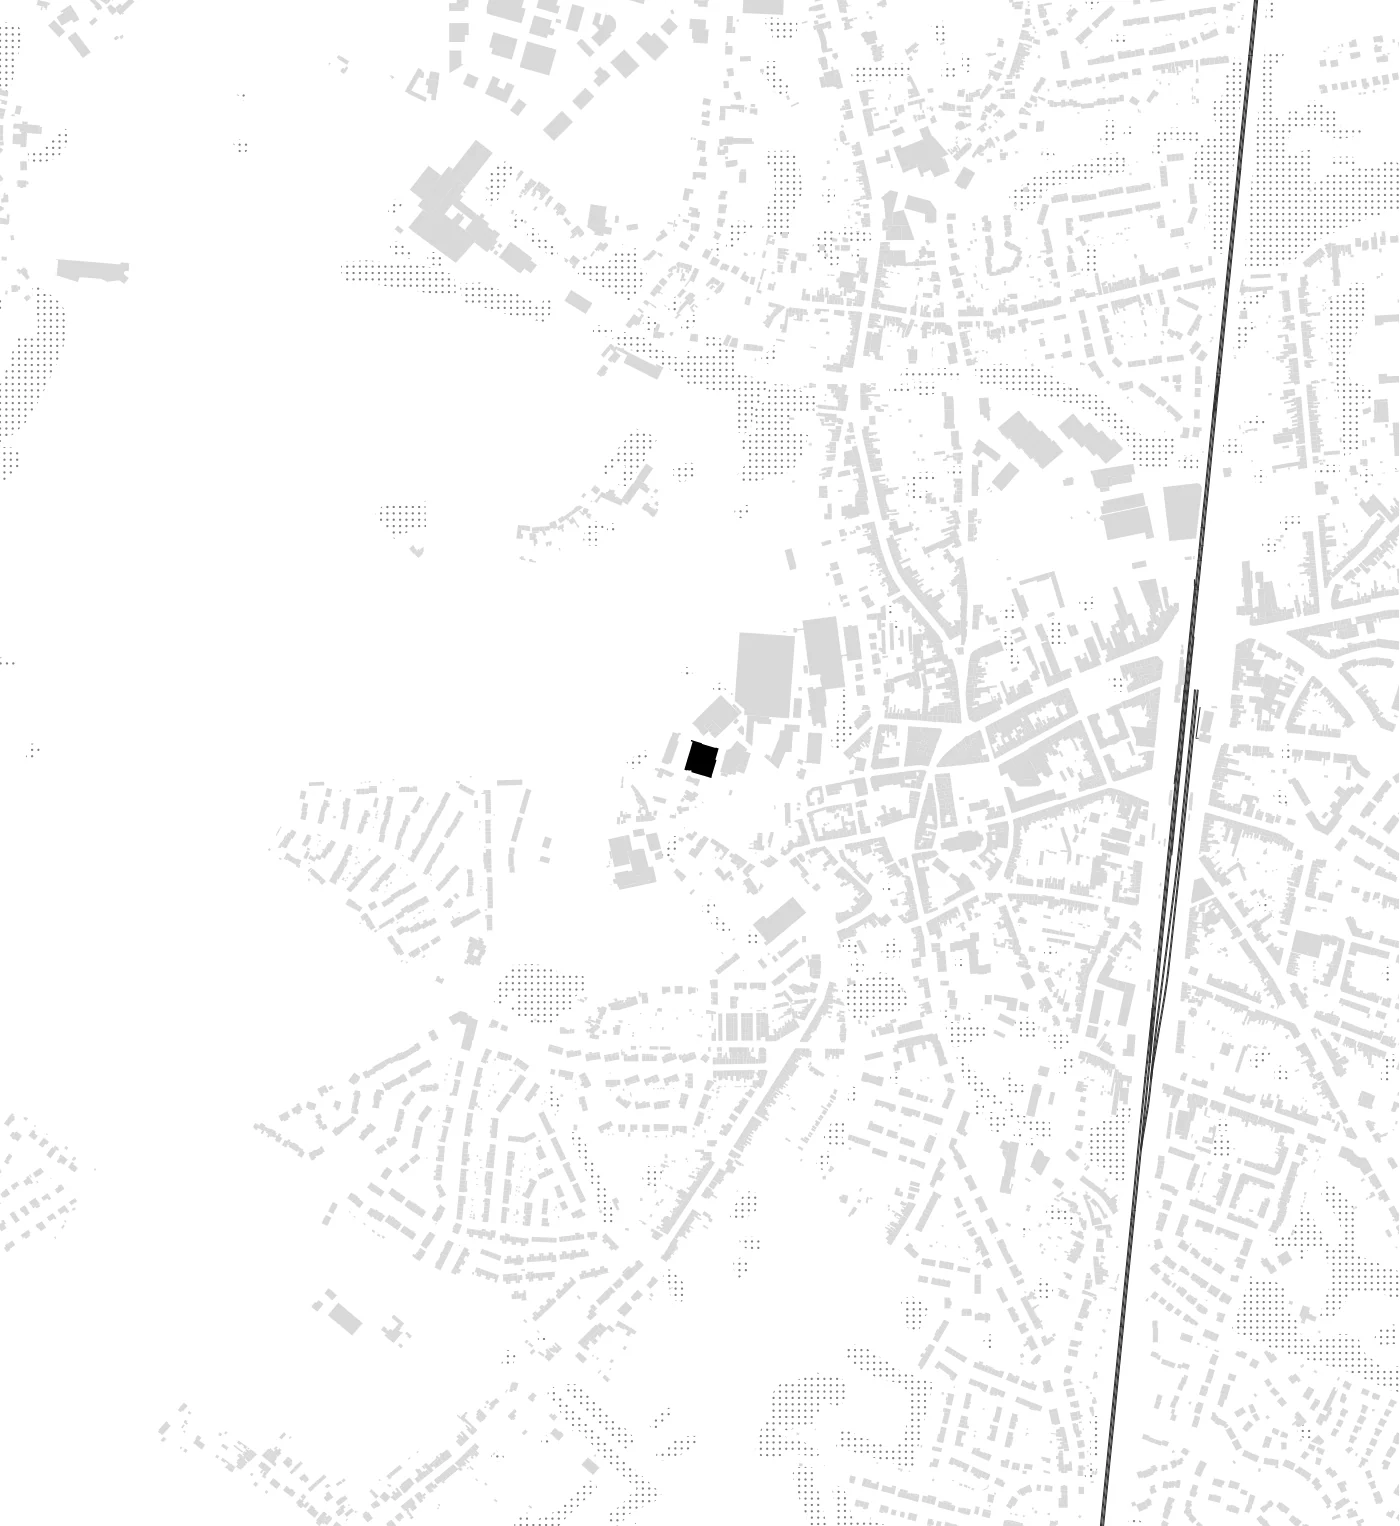
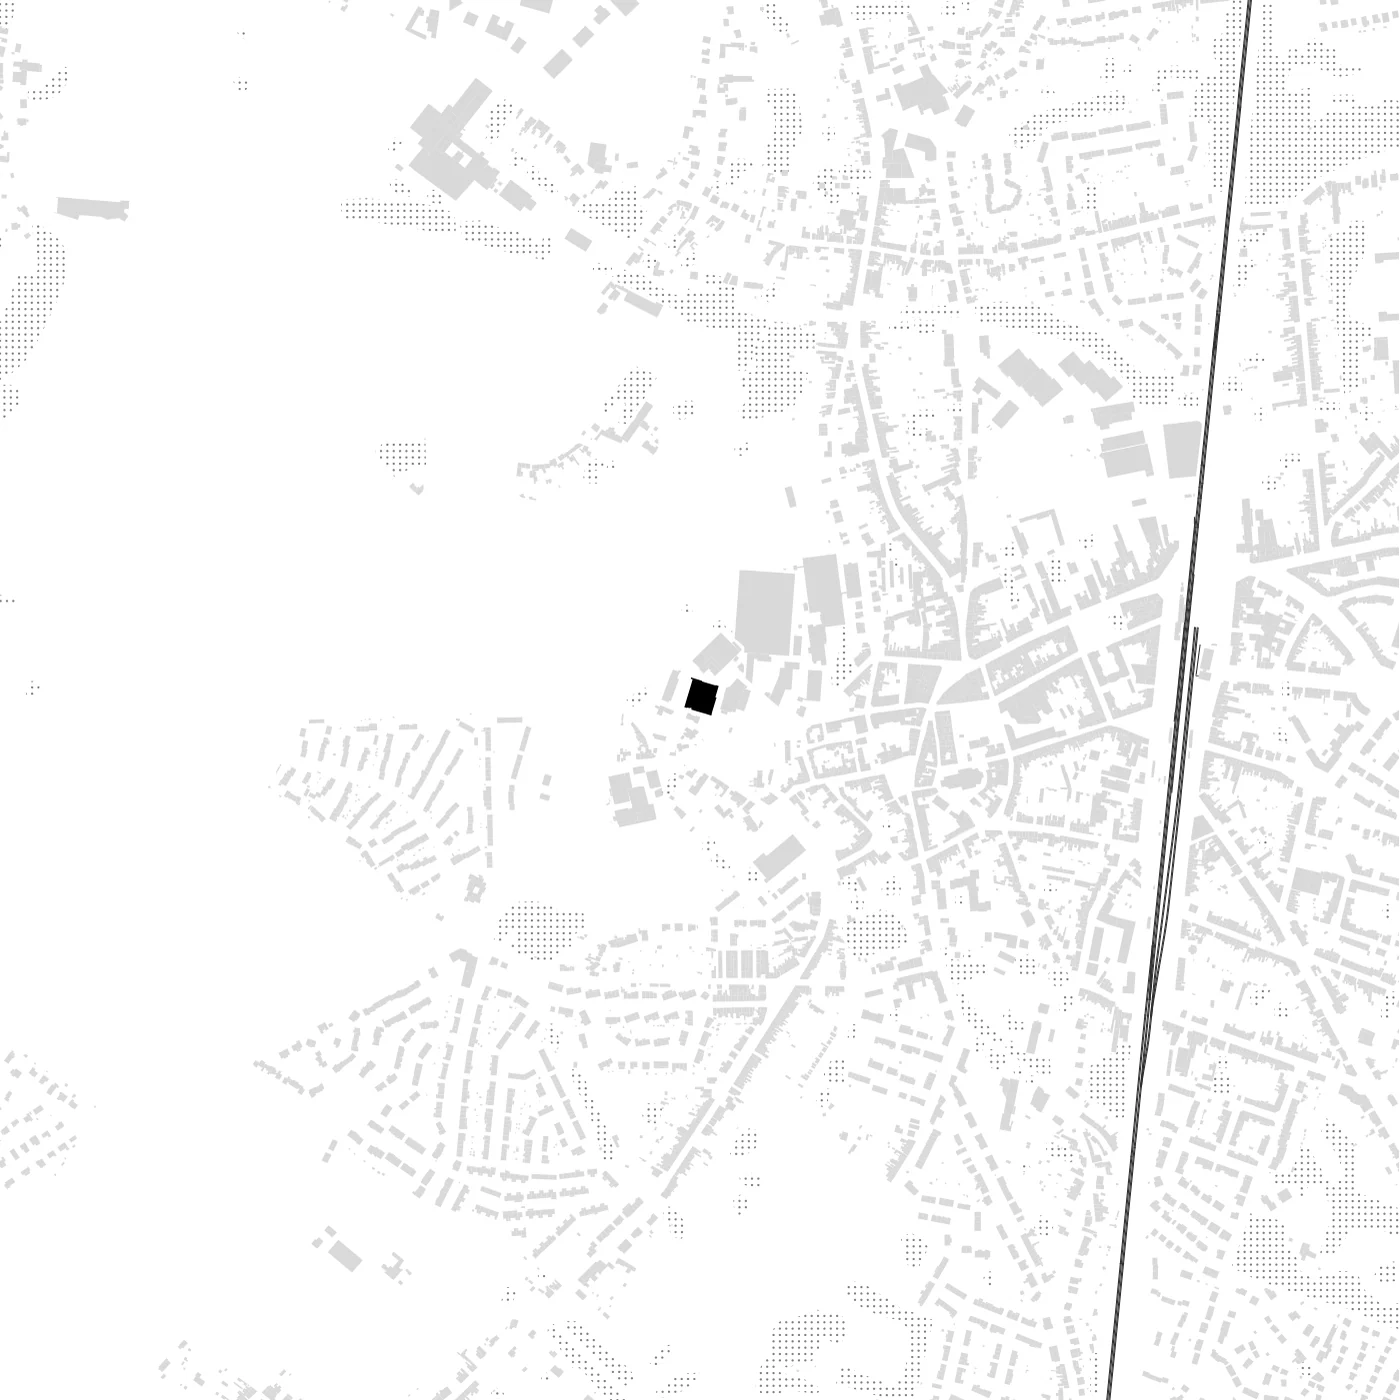
Les dessins n'ont plus de fond blanc ; le plan Nolli recadré en carré
Chaque planche qui n'est pas une photo reçoit la classe « dessin », et site.css lui
applique mix-blend-mode: multiply : le blanc de l'image prend la couleur du fond, gris
du site sur l'accueil comme dans la visionneuse, et seuls les traits restent. Les
vingt-trois planches photo (maquettes, photos de site, références, photo d'attente)
portent photo: true dans projets.js et ne sont pas fusionnées.

Le plan Nolli est rendu depuis le PDF vectoriel en carré de 1 400 px, centré sur la page.

diff --git a/projets/projets.js b/projets/projets.js
@@ -12,7 +12,7 @@ window.PROJETS = [
       'A shared food production project links the dwellings: vegetable gardens in open ground, growing greenhouses and a greenhouse crowning the roof, which takes the sunniest floor while the dwellings are arranged beneath. The collective, set up as an association, runs the crops, the shared spaces and a monthly market open to the municipality: the project settles into the life of the neighbourhood and becomes one of its working parts.',
       'A single building, the garden in the depth of the plot; three structural systems: concrete ground floor with brick facing, timber post-and-beam, light greenhouse at the ridge.'
     ],
-    couverture: { src: 'projets/images/hpp-site-02-street_1400.webp', w: 1400, h: 934, legende: 'as found — the street front, the neighbouring houses and the passage to the plot' },
+    couverture: { src: 'projets/images/hpp-site-02-street_1400.webp', w: 1400, h: 934, photo: true, legende: 'as found — the street front, the neighbouring houses and the passage to the plot' },
     diapos: [
       { src: 'projets/images/hpp-coupe-50_1400.webp', w: 1400, h: 1040, legende: 'the greenhouse crowns the dwellings — crops hung beneath the ridge, vegetable gardens on the terraces' },
       { src: 'projets/images/hpp-elevation_1400.webp', w: 1400, h: 313, legende: 'on the street, the project takes up the heights of its neighbours' },
@@ -24,17 +24,17 @@ window.PROJETS = [
       { src: 'projets/images/hpp-plan-r3-100_1400.webp', w: 1400, h: 1194, legende: 'on the top floor, the production greenhouse and its growing tables' },
       { src: 'projets/images/hpp-plan-r1_1400.webp', w: 1400, h: 827, legende: 'the first floor in detail, from the street to the garden' },
       { src: 'projets/images/hpp-axonometrie_906.webp', w: 906, h: 1152, legende: 'three structural systems — concrete and brick on the ground floor, timber post-and-beam, light greenhouse at the ridge' },
-      { src: 'projets/images/hpp-model-01-corner_1400.webp', w: 1400, h: 1867, legende: 'the model — brick ground floor, timber upper floors, the greenhouse frame at the ridge' },
-      { src: 'projets/images/hpp-model-02-street_1400.webp', w: 1400, h: 1867, legende: 'the model — the street elevation, the slatted timber façade over the open ground floor' },
-      { src: 'projets/images/hpp-model-03-garden_1400.webp', w: 1400, h: 1867, legende: 'the model — the garden side, the terraces and the greenhouse frame above' },
+      { src: 'projets/images/hpp-model-01-corner_1400.webp', w: 1400, h: 1867, photo: true, legende: 'the model — brick ground floor, timber upper floors, the greenhouse frame at the ridge' },
+      { src: 'projets/images/hpp-model-02-street_1400.webp', w: 1400, h: 1867, photo: true, legende: 'the model — the street elevation, the slatted timber façade over the open ground floor' },
+      { src: 'projets/images/hpp-model-03-garden_1400.webp', w: 1400, h: 1867, photo: true, legende: 'the model — the garden side, the terraces and the greenhouse frame above' },
       { src: 'projets/images/hpp-croquis_800.webp', w: 800, h: 1357, legende: 'first intentions — the thresholds of the common, the market open to the neighbourhood' },
       { src: 'projets/images/hpp-analyses_3061.webp', w: 3061, h: 976, legende: 'site analysis, three readings of the neighbourhood — parks, collective vegetable gardens and playgrounds within 400 m; where people get their food, short supply chains and shops; the massing of the fabric, from ground floor to fifteen metres' },
       { src: 'projets/images/hpp-narration_760.webp', w: 760, h: 927, legende: 'the cultivated municipality — the territory told through its gardens' },
       { src: 'projets/images/hpp-herbier_712.webp', w: 712, h: 937, legende: 'six spontaneous species recorded on site, from wild marjoram to purple foxglove' },
-      { src: 'projets/images/hpp-site-01-shed_1400.webp', w: 1400, h: 1050, legende: 'as found — inside an existing shed, racks and stored material' },
-      { src: 'projets/images/hpp-site-02-street_1400.webp', w: 1400, h: 934, legende: 'as found — the street front, the neighbouring houses and the passage to the plot' },
-      { src: 'projets/images/hpp-ref-molenbeek_407.webp', w: 407, h: 560, legende: 'reference — hé architecture, molenbeek 2024: the house extended by its roof' },
-      { src: 'projets/images/hpp-ref-melbourne_457.webp', w: 457, h: 560, legende: 'reference — austin maynard architects, melbourne 2022: the access gallery as a place to live' }
+      { src: 'projets/images/hpp-site-01-shed_1400.webp', w: 1400, h: 1050, photo: true, legende: 'as found — inside an existing shed, racks and stored material' },
+      { src: 'projets/images/hpp-site-02-street_1400.webp', w: 1400, h: 934, photo: true, legende: 'as found — the street front, the neighbouring houses and the passage to the plot' },
+      { src: 'projets/images/hpp-ref-molenbeek_407.webp', w: 407, h: 560, photo: true, legende: 'reference — hé architecture, molenbeek 2024: the house extended by its roof' },
+      { src: 'projets/images/hpp-ref-melbourne_457.webp', w: 457, h: 560, photo: true, legende: 'reference — austin maynard architects, melbourne 2022: the access gallery as a place to live' }
     ],
     fiche: { lieu: 'Berchem-Sainte-Agathe, Brussels', annee: '2025-2026', programme: 'six collective housing units and their shared spaces — greenhouse, laundry, shared kitchen, productive garden', surface: '1,100 m²', statut: 'studio project, LOCI UCLouvain', equipe: 'site analysis and massing study in a two-person team with Hamza El Arja — building, documents and drawings: Côme Le Bozec' },
     photographie: 'drawings: Côme Le Bozec'
@@ -49,27 +49,27 @@ window.PROJETS = [
       'The third is a quiet garden, reached from the multi-purpose rooms given over to some of the workshops, to rest and to exhibitions. Maples fill it, their bright foliage turning with the seasons — green in summer, red and yellow in autumn — and the ground under them is for sitting and for activities in the open air. The garden runs along a new façade whose brick patterns reinterpret the masonry of the existing warehouse: a textured backdrop. At its far end stands the original west façade, its two bays and double-pitched roofs cutting the skyline; a bench of reused bricks is set against it.',
       'The aim is to keep as much of the old as possible and reuse some of it to build the new. Exposed brick and metal structures stay, and what is added uses the same materials, brick and steel, so old and new read together. The walls between the multi-purpose rooms are load-bearing brick piers, infilled with brick from the masonry dismantled to free the east flank of the site. Between rooms and workshops, these bricks make a good acoustic break, sometimes lined on one face with acoustic panels or curtains. The other face stays exposed and speaks to the existing building: its blue joints show the history of successive interventions.',
     ],
-    couverture: { src: 'projets/images/tsa-photo-01-hall-racks_1021.webp', w: 1021, h: 1004, legende: 'the warehouse as found — storage racks beneath the sawtooth roofs' },
+    couverture: { src: 'projets/images/tsa-photo-01-hall-racks_1021.webp', w: 1021, h: 1004, photo: true, legende: 'the warehouse as found — storage racks beneath the sawtooth roofs' },
     diapos: [
-      { src: 'projets/images/tsa-map-nolli_1400.webp', w: 1400, h: 1526, legende: 'figure-ground, 1:10 000 — the warehouse in black among the built fabric of Braine-l’Alleud, railway line 124 to the east' },
+      { src: 'projets/images/tsa-map-nolli_1400.webp', w: 1400, h: 1400, legende: 'figure-ground, 1:10 000 — the warehouse in black among the built fabric of Braine-l’Alleud, railway line 124 to the east' },
       { src: 'projets/images/tsa-site-plan_1400.webp', w: 1400, h: 846, legende: 'site plan — the Carimar site around its central yard, the Hain along the east edge, the neighbouring buildings' },
       { src: 'projets/images/tsa-ground-floor_1400.webp', w: 1400, h: 1718, legende: 'ground floor — foyer on the yard, entrance hall under the sawtooth roofs, rooms and workshops off the corridor, maple garden to the north; new in red, existing in grey' },
       { src: 'projets/images/tsa-first-floor_1400.webp', w: 1400, h: 1718, legende: 'first floor — the single upper level, above the multi-purpose rooms' },
-      { src: 'projets/images/tsa-model-01-overview_1400.webp', w: 1400, h: 1050, legende: 'the model — the sawtooth roofs around the central yard' },
-      { src: 'projets/images/tsa-model-02-yard_1400.webp', w: 1400, h: 1050, legende: 'the model — the yard, the timber truss and the sawtooth roofs' },
-      { src: 'projets/images/tsa-model-05-workshop_1400.webp', w: 1400, h: 1867, legende: 'the model, inside — a workshop room, its furniture and the glazing onto the garden' },
+      { src: 'projets/images/tsa-model-01-overview_1400.webp', w: 1400, h: 1050, photo: true, legende: 'the model — the sawtooth roofs around the central yard' },
+      { src: 'projets/images/tsa-model-02-yard_1400.webp', w: 1400, h: 1050, photo: true, legende: 'the model — the yard, the timber truss and the sawtooth roofs' },
+      { src: 'projets/images/tsa-model-05-workshop_1400.webp', w: 1400, h: 1867, photo: true, legende: 'the model, inside — a workshop room, its furniture and the glazing onto the garden' },
       { src: 'projets/images/tsa-map-situation_1400.webp', w: 1400, h: 2013, legende: 'location plan, 1:6 000 — the site outlined in red, the Hain running north–south past it, railway line 124 to the east' },
       { src: 'projets/images/tsa-map-medallions_2801.webp', w: 2801, h: 880, legende: 'local context, four medallions at 1:15 000 — left to right: connections, zoning, building heights, figure-ground; the warehouse in red' },
-      { src: 'projets/images/tsa-photo-01-hall-racks_1021.webp', w: 1021, h: 1004, legende: 'the warehouse as found — storage racks beneath the sawtooth roofs' },
-      { src: 'projets/images/tsa-photo-03-hall-yard_1009.webp', w: 1009, h: 1004, legende: 'as found — from inside the warehouse towards the yard, two figures in the opening against the light' },
-      { src: 'projets/images/tsa-photo-04-trusses_1021.webp', w: 1021, h: 1004, legende: 'as found — timber trusses and brick walls of the workshop wing, equipment in store' },
-      { src: 'projets/images/tsa-photo-02-roof-pallets_1033.webp', w: 1033, h: 1004, legende: 'as found — the roof structure over stacked pallets, timber and brick' },
-      { src: 'projets/images/tsa-photo-12-gate_953.webp', w: 953, h: 957, legende: 'as found — the warehouse gate onto the yard, painted brick under a metal roof' },
-      { src: 'projets/images/tsa-photo-06-brick-canopy_1001.webp', w: 1001, h: 1013, legende: 'as found — brick wall and metal canopy on the yard, a parked car' },
-      { src: 'projets/images/tsa-photo-09-alley_1009.webp', w: 1009, h: 1004, legende: 'as found — the alley along the sawtooth roofs, towards the neighbourhood' },
-      { src: 'projets/images/tsa-photo-07-hain-brick_1021.webp', w: 1021, h: 1004, legende: 'as found — the Hain at the foot of a brick gable' },
-      { src: 'projets/images/tsa-photo-11-hain-building_964.webp', w: 964, h: 945, legende: 'as found — the Hain along the building, the east flank to be freed' },
-      { src: 'projets/images/tsa-photo-08-hain-trees_1033.webp', w: 1033, h: 1004, legende: 'as found — trees over the Hain, the houses of the neighbourhood behind' },
+      { src: 'projets/images/tsa-photo-01-hall-racks_1021.webp', w: 1021, h: 1004, photo: true, legende: 'the warehouse as found — storage racks beneath the sawtooth roofs' },
+      { src: 'projets/images/tsa-photo-03-hall-yard_1009.webp', w: 1009, h: 1004, photo: true, legende: 'as found — from inside the warehouse towards the yard, two figures in the opening against the light' },
+      { src: 'projets/images/tsa-photo-04-trusses_1021.webp', w: 1021, h: 1004, photo: true, legende: 'as found — timber trusses and brick walls of the workshop wing, equipment in store' },
+      { src: 'projets/images/tsa-photo-02-roof-pallets_1033.webp', w: 1033, h: 1004, photo: true, legende: 'as found — the roof structure over stacked pallets, timber and brick' },
+      { src: 'projets/images/tsa-photo-12-gate_953.webp', w: 953, h: 957, photo: true, legende: 'as found — the warehouse gate onto the yard, painted brick under a metal roof' },
+      { src: 'projets/images/tsa-photo-06-brick-canopy_1001.webp', w: 1001, h: 1013, photo: true, legende: 'as found — brick wall and metal canopy on the yard, a parked car' },
+      { src: 'projets/images/tsa-photo-09-alley_1009.webp', w: 1009, h: 1004, photo: true, legende: 'as found — the alley along the sawtooth roofs, towards the neighbourhood' },
+      { src: 'projets/images/tsa-photo-07-hain-brick_1021.webp', w: 1021, h: 1004, photo: true, legende: 'as found — the Hain at the foot of a brick gable' },
+      { src: 'projets/images/tsa-photo-11-hain-building_964.webp', w: 964, h: 945, photo: true, legende: 'as found — the Hain along the building, the east flank to be freed' },
+      { src: 'projets/images/tsa-photo-08-hain-trees_1033.webp', w: 1033, h: 1004, photo: true, legende: 'as found — trees over the Hain, the houses of the neighbourhood behind' },
     ],
     fiche: { lieu: "Braine-l'Alleud, Walloon Brabant", annee: '2024-2025', programme: 'conversion of a former warehouse into a cultural centre for young people — foyer and terrace, entrance hall, multi-purpose rooms and workshops, garden', statut: 'studio project, LOCI UCLouvain', equipe: 'project in a two-person team with Maëlis Alban' },
     photographie: 'drawings: Côme Le Bozec and Maëlis Alban — maps: Côme Le Bozec, from SPW Géoportail de la Wallonie data (CC BY 4.0)'
@@ -100,7 +100,7 @@ window.PROJETS = [
     titre: 'Work in progress',
     enCours: true,
     description: 'the next project is in preparation.',
-    couverture: { src: 'projets/images/fictif/photo-01_1280x720.jpg', w: 1280, h: 720 },
+    couverture: { src: 'projets/images/fictif/photo-01_1280x720.jpg', w: 1280, h: 720, photo: true },
     diapos: [],
     fiche: { statut: 'in preparation' },
     photographie: ''

diff --git a/assets/js/site.js b/assets/js/site.js
@@ -48,7 +48,7 @@
           <figure>
             <div class="titre-petit"><h1>${echappe(p.titre)}</h1></div>
             <div class="img-cadre" style="--ar:${p.couverture.w}/${p.couverture.h}">
-              <img src="${prefixe}${p.couverture.src}" width="${p.couverture.w}" height="${p.couverture.h}" alt="${echappe(p.titre)}" loading="${i < 2 ? 'eager' : 'lazy'}" decoding="async">
+              <img class="${p.couverture.photo ? '' : 'dessin'}" src="${prefixe}${p.couverture.src}" width="${p.couverture.w}" height="${p.couverture.h}" alt="${echappe(p.titre)}" loading="${i < 2 ? 'eager' : 'lazy'}" decoding="async">
               <span class="indicateur" aria-hidden="true"></span>
             </div>
           </figure>
@@ -73,7 +73,7 @@
         <button class="liste-titre" type="button" aria-expanded="false" aria-controls="dep-${p.slug}">${echappe(p.titre)}</button>
         <div class="depliant" id="dep-${p.slug}"><div>
           <div class="img-cadre" style="--ar:${p.couverture.w}/${p.couverture.h}" data-slug="${p.slug}" role="link" tabindex="-1" aria-label="open project ${echappe(p.titre)}">
-            <img src="${prefixe}${p.couverture.src}" width="${p.couverture.w}" height="${p.couverture.h}" alt="" loading="lazy" decoding="async"><span class="indicateur" aria-hidden="true"></span>
+            <img class="${p.couverture.photo ? '' : 'dessin'}" src="${prefixe}${p.couverture.src}" width="${p.couverture.w}" height="${p.couverture.h}" alt="" loading="lazy" decoding="async"><span class="indicateur" aria-hidden="true"></span>
           </div>
           <div class="depliant-desc"><p>${p.description}</p></div>
         </div></div>
@@ -99,7 +99,7 @@
   let courant = null, index = 0, ouverte = false, infoOuverte = false, sansPush = false, positionDefilement = 0, declencheur = null, redim = false;
 
   function construire(p, n){
-    diapo.innerHTML = p.diapos.map((d, k) => `<div class="vue" data-n="${k}"><img src="${prefixe}${d.src}" width="${d.w}" height="${d.h}" alt="${echappe(d.legende || (p.titre + ', plate ' + (k+1)))}" loading="${Math.abs(k - n) <= 1 ? 'eager' : 'lazy'}" decoding="async"></div>`).join('');
+    diapo.innerHTML = p.diapos.map((d, k) => `<div class="vue" data-n="${k}"><img class="${d.photo ? '' : 'dessin'}" src="${prefixe}${d.src}" width="${d.w}" height="${d.h}" alt="${echappe(d.legende || (p.titre + ', plate ' + (k+1)))}" loading="${Math.abs(k - n) <= 1 ? 'eager' : 'lazy'}" decoding="async"></div>`).join('');
     titre.textContent = p.titre;
     meta.innerHTML = CHAMPS.filter(([k]) => p.fiche && p.fiche[k]).map(([k, l]) => `<div class="lb-champ"><dt>${l}</dt><dd>${p.fiche[k]}</dd></div>`).join('');
     desc.innerHTML = (p.texte && p.texte.length ? p.texte : [p.description]).map(t => `<p>${t}</p>`).join('');

diff --git a/assets/css/site.css b/assets/css/site.css
@@ -84,6 +84,8 @@ html.entered:not(.direct) #page{animation:apparait 600ms ease-in-out 300ms both}
 .img-cadre{position:relative;width:100%;overflow:hidden;aspect-ratio:var(--ar,16/9);background:transparent}
 .img-cadre img{position:absolute;top:0;left:0;width:100%;height:100%;object-fit:cover;opacity:0;transition:opacity 500ms ease-in-out}
 .img-cadre img.ok{opacity:1}
+/* dessins sans fond : le blanc de l'image prend la couleur du fond, seuls les traits restent (photos exclues) */
+img.dessin{mix-blend-mode:multiply}
 .indicateur{position:absolute;top:50%;left:50%;width:16px;height:16px;margin:-8px 0 0 -8px;border:1px solid #000;border-radius:50%;
   border-right-color:transparent;animation:tourne 1s linear infinite;opacity:.4}
 .img-cadre img.ok ~ .indicateur,.img-cadre img.ok + .indicateur{display:none}
